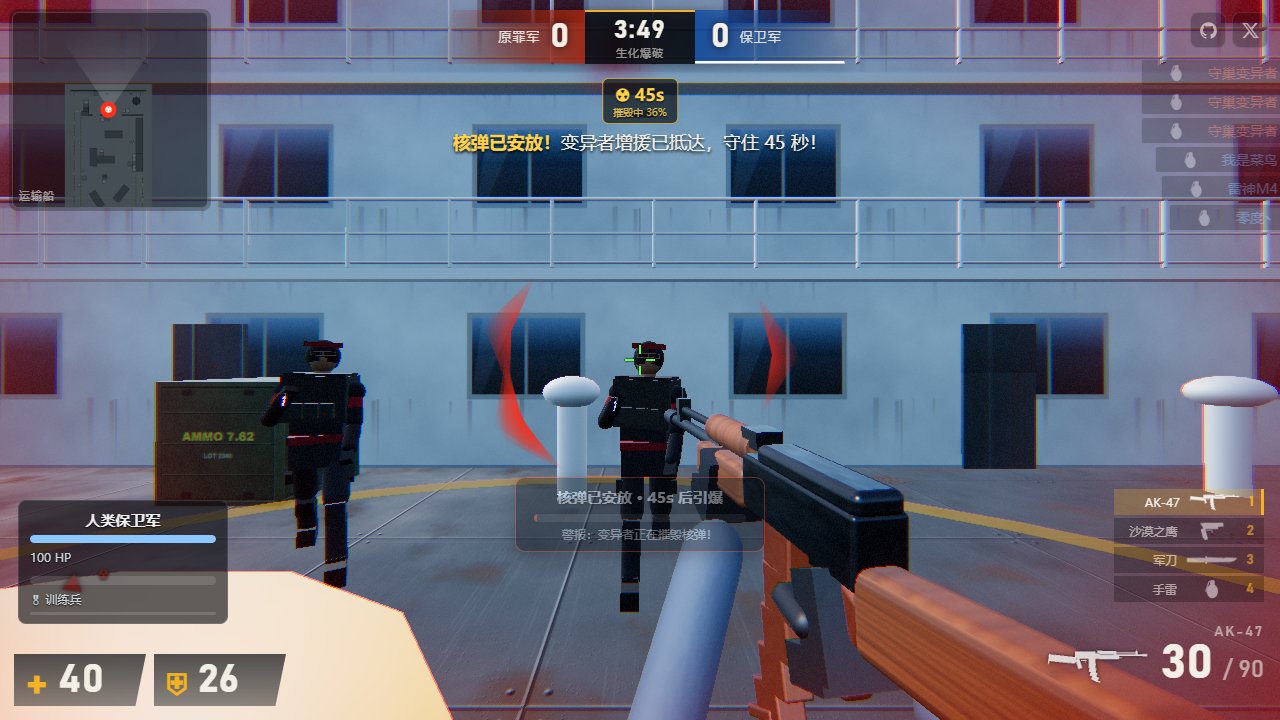
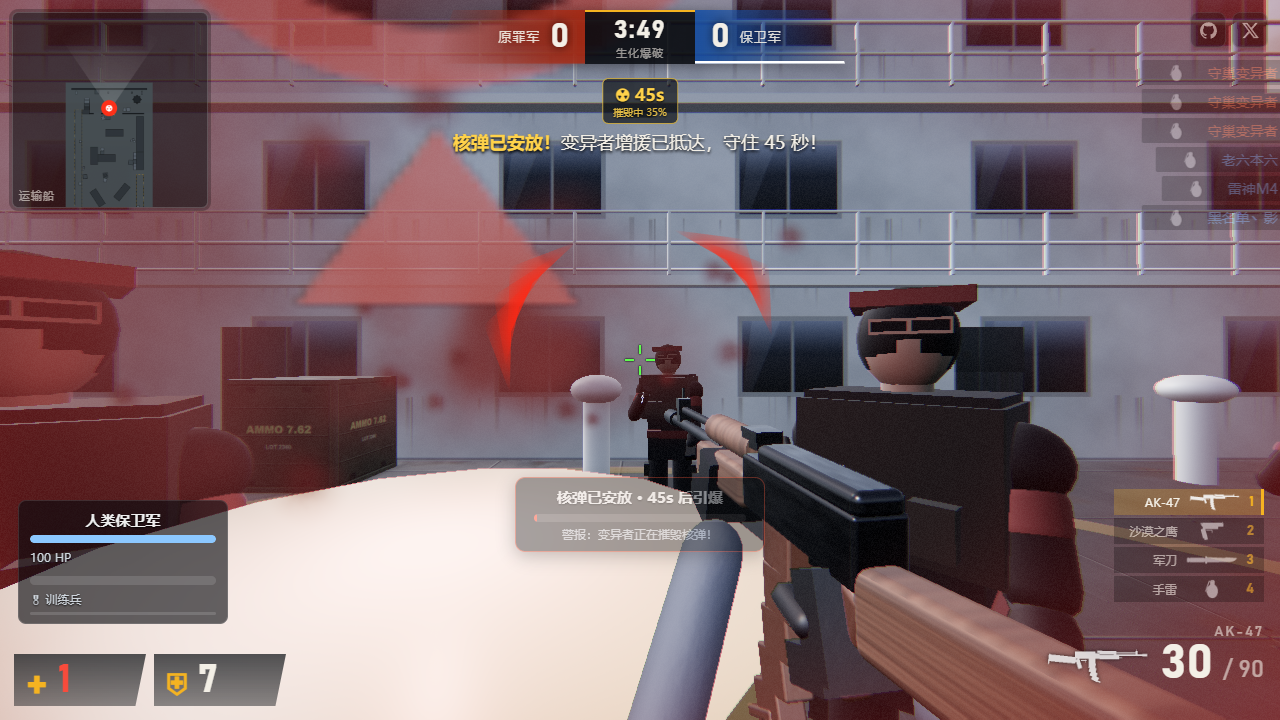
V106 主菜单武器数值面板 + 变异者击退窗口（火力压制）
- 菜单切武器区新增 #menuWStats 三卡数值面板：选中主/副/近身武器的
  伤害/射速/机动 数字+可视化条（枪加弹容、近战为攻速轻/重），seg 选择联动刷新
- 击退修复（用户报告命中变异者无击退）：V71 冲量被 AI 前进驱动瞬间抵消——
  新增 knockT=0.24s 击退窗口（damage 设置/simulate 衰减/Zombie.update 窗口内
  停走禁跳），冲量系数 0.5→0.55、变异者速度上限 2.6→3.0
- 平衡 A/B：曾加「迎面速度分量下限抬升」致人类胜率崩塌（4/6→1/9），二分定位后移除；
  仅 knockT+冲量即达压制手感（击退 +0.06m/0.2s vs 正常逼近 -0.84m）且平衡恢复
  （感染人类 3/5 胜、复仇均出复仇者）
- 测试：probe v79（面板 5 + 击退 5 断言，对照组差值法消抖）；v71 上限 2.6→3.0、
  测量窗 0.3→0.2s；e2e 狙击击退断言 3.0；v62 咆哮到期改测自身技能态+斧头清走廊
  （V106 击退使背景火力下场景 bot 走位不再可预测）
- 全量回归：rules 97 + 探针 v1-v79 + e2e 20/21 + smoke 绿

diff --git a/cf-transport-ship/src/hud.js b/cf-transport-ship/src/hud.js
@@ -33,6 +33,7 @@ export class HUD {
     this.showModeInfo(this.opts.mode);
     this.showMapMeta(this.opts.map);
     this.renderMenuRank(); // V105 大厅军衔条（跨局 localStorage）
+    this.renderMenuWStats(); // V106 武器数值面板
   }
   saveOpts() { try { localStorage.setItem('cf_ship_opts', JSON.stringify(this.opts)); } catch (e) { /* 忽略 */ } }
 
@@ -106,6 +107,27 @@ export class HUD {
     '变异者按 E 吞噬尸体恢复生命并积累进化。',
     '人类阵营能量技能 T / F / V，能量随击杀、伤害与时间增长。',
   ];
+  // V106 菜单武器数值面板：选中武器 伤害/射速/机动 数字 + 可视化条（与商店卡同一套 statBar 视觉）
+  renderMenuWStats() {
+    const el = document.getElementById('menuWStats');
+    if (!el) return;
+    const mk = (slot, id) => {
+      const d = WEAPONS[id];
+      if (!d) return '';
+      const gun = d.type !== 'melee';
+      return `<div class="wscard"><div class="wshead"><span>${slot}</span><b>${d.name}</b></div>
+        ${gun
+        ? statBar('伤害', d.dmg, d.dmg / 60)
+          + statBar('射速', d.rpm >= 1000 ? (d.rpm / 1000).toFixed(1) + 'k' : d.rpm, d.rpm / 1200)
+          + statBar('弹容', d.mag + '发', d.mag / 40)
+          + statBar('机动', Math.round(d.speed * 100) + '%', (d.speed - 0.7) / 0.35)
+        : statBar('伤害', d.dmgLight + '/' + d.dmgHeavy, d.dmgHeavy / 200)
+          + statBar('攻速', (1 / d.rateLight).toFixed(1) + '/s', (1 / d.rateLight) / 4)
+          + statBar('机动', Math.round(d.speed * 100) + '%', (d.speed - 0.7) / 0.35)}
+      </div>`;
+    };
+    el.innerHTML = mk('主武器', this.opts.primary) + mk('副武器', this.opts.secondary) + mk('近身', this.opts.melee);
+  }
   startWithLoading() {
     const L = HUD.MAP_LOAD[this.opts.map] || { cn: this.opts.map, en: '' };
     const wrap = document.getElementById('wozLoad');
@@ -144,6 +166,7 @@ export class HUD {
             }
           }
           if (k === 'map') this.showMapMeta(o[k]);
+          if (k === 'primary' || k === 'secondary' || k === 'melee') this.renderMenuWStats(); // V106 武器数值面板联动
           this.g.onOption?.(k, o[k]);
           this.g.audio?.playUI('click');
         });
@@ -735,6 +758,7 @@ const TEMPLATE = `
       <div class="opt"><div class="lab">仓库 · 主武器</div><div class="seg" data-k="primary"><button data-v="ak47">AK-47</button><button data-v="m4a1">M4A1</button><button data-v="awm">AWM</button><button data-v="mp5">MP5</button><button data-v="m60">M60</button></div></div>
       <div class="opt"><div class="lab">仓库 · 副武器</div><div class="seg" data-k="secondary"><button data-v="deagle">沙漠之鹰</button><button data-v="usp">USP</button><button data-v="r8">R8 左轮</button></div></div>
       <div class="opt"><div class="lab">仓库 · 近身武器</div><div class="seg" data-k="melee"><button data-v="knife">军刀</button><button data-v="axe">消防斧</button></div></div>
+      <div id="menuWStats" class="wstats"></div>
       <div class="row2">
         <div class="opt"><div class="lab">作战规模</div><div class="seg" data-k="size"><button data-v="4">4v4</button><button data-v="6">6v6</button><button data-v="8">8v8</button></div></div>
         <div class="opt"><div class="lab">目标击杀</div><div class="seg" data-k="goal"><button data-v="30">30</button><button data-v="50">50</button><button data-v="100">100</button></div></div>

diff --git a/cf-transport-ship/src/game.js b/cf-transport-ship/src/game.js
@@ -827,15 +827,17 @@ export class Game {
       v.armor = Math.max(0, v.armor - amt * (1 - ap) * 1.4);
     }
     v.hp -= hpD;
-    // WOZ 打击反馈：击退冲量 + 命中暂缓（变异者躯体重，击退衰减但暂缓吃满）
+    // WOZ 打击反馈：击退冲量 + 命中暂缓（V106：变异者命中进入击退窗口——窗口内 AI 停走让位给冲量，火力压制后退可见）
     if (dir && v.alive) {
       const kdef = WEAPONS[wid] || {};
-      const heavy = v.wozHeavy ? 0.5 : 1; // 变异者质量大：击退减半但仍可感知（0.12 配 9/s 摩擦位移仅 1-2cm 不可见；2.6m/s 上限防连发推走）
-      if (kdef.knock) {
-        v.vel.x += dir.x * kdef.knock * heavy; v.vel.z += dir.z * kdef.knock * heavy;
-        if (v.wozHeavy) { // 变异者击退速度上限 2.6m/s
-          const hs = Math.hypot(v.vel.x, v.vel.z);
-          if (hs > 2.6) { v.vel.x *= 2.6 / hs; v.vel.z *= 2.6 / hs; }
+      const heavy = v.wozHeavy ? 0.55 : 1; // 变异者质量大：冲量打折，但配合停走窗口净后退仍明显
+      const kn = (kdef.knock || 0) * heavy;
+      if (kn > 0) {
+        v.vel.x += dir.x * kn; v.vel.z += dir.z * kn;
+        if (v.wozHeavy) {
+          v.knockT = Math.max(v.knockT || 0, 0.24); // 击退窗口（Zombie.update 期间不前进）
+          const cap = 3.0, hs = Math.hypot(v.vel.x, v.vel.z); // 变异者击退速度上限（防霰弹推飞）
+          if (hs > cap) { v.vel.x *= cap / hs; v.vel.z *= cap / hs; }
         }
       }
       if (kdef.stagger) v.staggerT = Math.max(v.staggerT || 0, kdef.stagger);
@@ -1018,6 +1020,7 @@ export class Game {
         a.radarT = Math.max(0, a.radarT - dt);
         if (a.blindT > 0) a.blindT = Math.max(0, a.blindT - dt); // 震撼弹/尖啸致盲统一衰减
         if (a.staggerT > 0) a.staggerT = Math.max(0, a.staggerT - dt); // 命中暂缓统一衰减（原来只有僵尸会恢复→人类被打后永久减速）
+        if (a.knockT > 0) a.knockT = Math.max(0, a.knockT - dt); // V106 击退窗口衰减
         if (a.alive) {
           a.protectT = Math.max(0, a.protectT - dt);
           const s = a.soldier;

diff --git a/cf-transport-ship/src/style.css b/cf-transport-ship/src/style.css
@@ -290,3 +290,16 @@ body.lk #clinks{opacity:.22}
 @keyframes wlFill{from{width:0}to{width:100%}}
 @keyframes wlPulse{0%,100%{opacity:.75}50%{opacity:1}}
 @media (max-width:900px){#manualPanel .mcols{grid-template-columns:1fr}}
+
+/* V106 菜单武器数值面板（伤害/射速/机动 数字+条，随 seg 选择联动） */
+#menuWStats{display:grid;grid-template-columns:repeat(3,1fr);gap:8px;grid-column:1/-1;margin:2px 0 8px}
+#menuWStats .wscard{padding:8px 10px;border:1px solid rgba(126,227,106,.28);border-radius:8px;background:rgba(8,16,10,.55)}
+#menuWStats .wshead{display:flex;justify-content:space-between;align-items:baseline;margin-bottom:4px}
+#menuWStats .wshead span{font-size:10px;color:#7d8d76;letter-spacing:2px}
+#menuWStats .wshead b{font-size:12.5px;color:#d9e8cf;letter-spacing:1px}
+#menuWStats .srow{display:flex;align-items:center;gap:6px;margin-top:3px}
+#menuWStats .srow span{width:26px;font-size:10px;color:#93a08d;text-align:left}
+#menuWStats .srow i{flex:1;height:4px;background:rgba(255,255,255,.12);border-radius:2px;overflow:hidden;display:block}
+#menuWStats .srow i b{display:block;height:100%;background:linear-gradient(90deg,#3f7a2e,#7ee36a);border-radius:2px}
+#menuWStats .srow em{width:44px;font:700 10px/1 Consolas,monospace;color:#cfe0ff;text-align:right;font-style:normal;flex:none}
+@media (max-width:900px){#menuWStats{grid-template-columns:1fr}}

diff --git a/cf-transport-ship/src/woz/zombie.js b/cf-transport-ship/src/woz/zombie.js
@@ -59,6 +59,8 @@ export class Zombie extends Actor {
     if (!this.alive) return;
     // 命中暂缓：移动迟滞 + 攻击硬直（衰减统一在 game.simulate 全角色处理）
     const staggered = this.staggerT > 0;
+    // V106 击退窗口：被人类火力命中后的短暂时间内不自主前进（vel 由击退冲量主导 → 后退可见）
+    const knocked = (this.knockT || 0) > 0;
     const rules = g.woz?.rules;
     this.thinkT -= dt;
     let repath = false;
@@ -117,7 +119,7 @@ export class Zombie extends Actor {
     this.yaw = wrapPi(this.yaw + THREE.MathUtils.clamp(wrapPi(dYaw - this.yaw), -turn, turn));
     const mStag = staggered ? 0.3 : 1;
     if (this.rootT > 0) { this.rootT -= dt; this.move(dt, 0, 0, false, false, false); } // 被缠绕定身
-    else this.move(dt, wishX * mStag, wishZ * mStag, this.wantJump, false, false);
+    else this.move(dt, knocked ? 0 : wishX * mStag, knocked ? 0 : wishZ * mStag, this.wantJump && !knocked, false, false);
     this.wantJump = false;
     // 攻击输入交给武器状态机（含攻速间隔）；暂缓硬直期间无法出爪
     const facing = Math.abs(wrapPi(dYaw - this.yaw)) < 0.7;

diff --git a/cf-transport-ship/WOZ_README.md b/cf-transport-ship/WOZ_README.md
@@ -290,3 +290,5 @@ scripts/          # smoke / woz-e2e / woz-e2e2 / woz-balance 四套自动化
 | V104 | **军衔等级系统**（官方 74 级表：训练兵 0 → 元帅 12454000，六档分色徽章+V形纹+档内经验条，局末经验结算 杀25/伤÷50/感染40/觉醒100/胜150/分×10，localStorage 跨局持久，晋升号角+toast）；官方数据回正：复仇者阈值回 2（yzz 516896 上线公告「仅剩两名幸存者」）+ 变异者承伤充能（半速）；修复结算页生涯统计被覆盖丢失。probe v77 + rules 14 断言 |
 
 | V105 | **主页面 WOZ 化大厅**：生化战场 logo+宣传语、顶部军衔条（74级表跨局）、官方键位口径、仓库化标签、战地手册弹窗（键位/军衔/角色名录/变异者图鉴）、每图专属读取页（地图代号+战术提示 1.5s）、毒绿/血红生化氛围皮肤。probe v78 |
+
+| V106 | **主菜单武器数值面板**（选中武器伤害/射速/机动 数字+条，seg 联动）+ **变异者击退窗口**（命中 knockT 0.24s AI 停走+冲量 0.55×/上限 3.0——火力压制后退可见；迎面速度下限方案经平衡 A/B 弃用）。probe v79 + v71 适配；全量回归 + 平衡模拟确认 |
